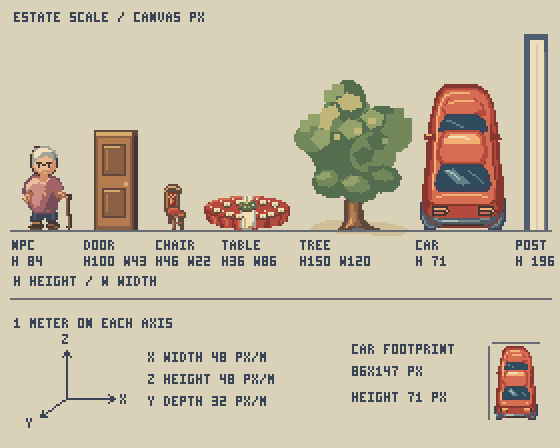
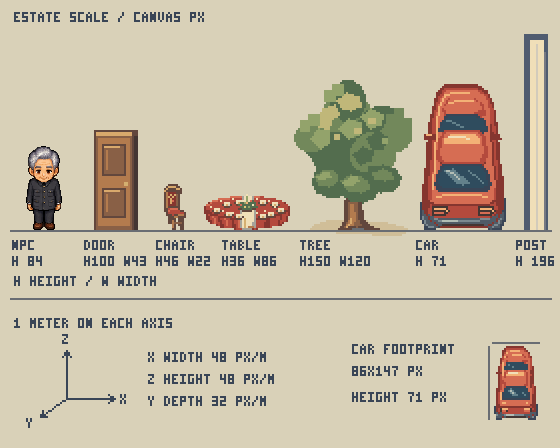
Use official banquet guests on estate art reference boards

Changed region(s): [[0.0304, 0.3125, 0.1518, 0.5312]]

diff --git a/回执/山庄收尾/画风/source/compare_r1.py b/回执/山庄收尾/画风/source/compare_r1.py
@@ -1,7 +1,7 @@
 #!/usr/bin/env python3
 """Rebuild the internal R1 comparison from actual committed banquet assets.
 Legacy inputs are read from Git objects (works with sparse checkout); new R1
-inputs are read from the current working files. No production files are changed.
+inputs default to the reviewed R1 Git revision. No production files are changed.
 Only integer NEAREST enlargement is used; no fit-to-cell, recoloring or redraw.
 """
 import argparse
@@ -14,6 +14,7 @@ from PIL import Image, ImageDraw, ImageFont
 
 ART = Path(__file__).resolve().parents[1]
 ROOT = ART.parents[2]
+REVIEWED_R1 = '4aefa8f7d4baa411461ddcb4931ca0a29acec4ae'
 OUTPUT_NAME = 'R1-现有宴会厅对照'
 TABLE_BOX = (204, 194, 290, 230)
 CHAIR_BOX = (164, 184, 186, 230)
@@ -70,7 +71,7 @@ def main():
     parser = argparse.ArgumentParser(description=__doc__)
     parser.add_argument('--ref', default='61c05009b3194911703f689ec82f363ac27f066d',
                         help='Committed formal source revision; resolved to a full SHA')
-    parser.add_argument('--r1-dir', type=Path, default=ART)
+    parser.add_argument('--r1-dir', type=Path, help='Optional working R1 files; default is the reviewed revision')
     parser.add_argument('--output', type=Path, default=ART / (OUTPUT_NAME + '.png'))
     args = parser.parse_args()
     revision = git('rev-parse', args.ref + '^{commit}').decode().strip()
@@ -86,9 +87,12 @@ def main():
         return json.loads(source(path))
 
     def current(name):
-        path = args.r1_dir / name
-        data = path.read_bytes()
-        new_inputs[name] = {'path': path.resolve().relative_to(ROOT).as_posix(), 'sha256': sha(data)}
+        path = (args.r1_dir or ART) / name
+        relative = path.resolve().relative_to(ROOT).as_posix()
+        data = path.read_bytes() if args.r1_dir else git('show', f'{REVIEWED_R1}:{relative}')
+        new_inputs[name] = {'path': relative, 'sha256': sha(data)}
+        if not args.r1_dir:
+            new_inputs[name]['git_revision'] = REVIEWED_R1
         return png(data)
 
     # Verify the actual formal default rather than choosing the prettier hall.
@@ -209,6 +213,8 @@ def main():
     text(canvas, (32, 1546), '右侧圆桌/椅子保留比例尺板纸色。坐标、调用链、输入哈希及复跑方式见同名“取材”记录。', 18, MUTED)
     # Reject torn input while another worker regenerates R1. Existing output stays intact.
     for item in new_inputs.values():
+        if not args.r1_dir:
+            continue
         assert sha((ROOT / item['path']).read_bytes()) == item['sha256'], 'R1 changed during composition; rerun after regeneration finishes'
     args.output.parent.mkdir(parents=True, exist_ok=True)
     canvas.save(args.output, optimize=True)
@@ -225,7 +231,7 @@ def main():
     def line(code, token):
         return next(i for i, s in enumerate(code.splitlines(), 1) if token in s)
     lines = [
-        '# R1 对照图取材证据', '', f'正式旧图基准：`{revision}`。右侧为运行脚本时当前 R1 文件，哈希见同名 JSON。', '',
+        '# R1 对照图取材证据', '', f'正式旧图基准：`{revision}`。右侧默认取已审的 R1 历史提交，哈希见同名 JSON。', '',
         '## 加载与缩放依据', '',
         f'- `godot/assets/hall.json`：hall55=true。`godot/scripts/main.gd:{line(main_code,"func hall_variant()")}` 优先级为一次性/同版本调试覆盖，未覆盖时读此正式配置；`_make_hall` 选择 DATA_55。',
         '- `godot/hongyuan/wedding.gd` 继承 main，正式邀请调用 `_enter_banquet()`，没有覆盖 hall_variant_once。此处核验默认路径，不假设个人调试存档。',
@@ -246,7 +252,7 @@ def main():
               '- 每档左右严格同尺度；原尺寸与 2 倍同时在一图中，2 倍仅 Image.Resampling.NEAREST。原素材颜色与尺寸不做归一化。',
               '- 这是静态调用链/图像取材核验，不是新一轮游戏运行或 Claude 审定。此对照图含旧素材颜色，不属于 R1 新素材色板审计集合。', '',
               '```sh', 'python3 回执/山庄收尾/画风/source/compare_r1.py', '```', '',
-              'V1 重生成三个人物和比例尺后执行同一命令即可；脚本会重新取当前文件并更新取材 JSON。输入若在拼图期间变化会拒绝写出，避免半新半旧。', '',
+              '正式比例尺已改用 LM-GUEST。历史人物仅从已审提交取材，不写回现行素材。', '',
               '阿鱼要做的事：暂时不用做。', '']
     args.output.with_name(args.output.stem + '-取材.md').write_text('\n'.join(lines))
     print(json.dumps({'output': str(args.output), 'size': canvas.size, 'legacy_revision': revision,

diff --git a/回执/山庄收尾/画风/source/draw_r1.py b/回执/山庄收尾/画风/source/draw_r1.py
@@ -1,4 +1,6 @@
 from PIL import Image, ImageDraw
+import io
+import json
 from pathlib import Path
 OUT=Path(__file__).resolve().parents[1]
 # Named shared palette. Every exported visible RGB is checked against this table at the end.
@@ -27,7 +29,26 @@ MATERIALS = (
     ('木头', 'WOOD'), ('白墙灰瓦', 'WALL / TILE'), ('水', 'WATER'),
     ('红毯', 'RED CARPET'), ('布', 'CLOTH'), ('金属玻璃', 'METAL / GLASS'),
 )
-PEOPLE = ('photographer_w', 'elder', 'farmer_2')
+ROOT = OUT.parents[2]
+GUEST_BASE = '6f6448b45898479d58e5381675abe8fca53fda52'
+GUEST_DIR = 'godot/assets/characters/lm'
+# These are full native down/idle frames. Positions are in canvas pixels.
+GUEST_PLACEMENTS = {'比例尺': ('LM-GUEST-10', (12, 146)), '材质样': ('LM-GUEST-01', (476, 176))}
+
+
+def guest_frame(code):
+    def read(name):
+        return subprocess.check_output(['git', 'show', f'{GUEST_BASE}:{GUEST_DIR}/{name}'], cwd=ROOT)
+
+    index = json.loads(read('lm_index.json'))['guest_atlas']
+    assert (index['fw'], index['fh']) == (64, 84)
+    row = index['codes'].index(code)
+    with Image.open(io.BytesIO(read(index['file']))) as atlas:
+        frame = atlas.crop((0, row * 84, 64, (row + 1) * 84)).convert('RGBA')
+    with Image.open(io.BytesIO(read(f'chr_{code}.png'))) as sprite:
+        assert frame.tobytes() == sprite.crop((0, 0, 64, 84)).convert('RGBA').tobytes()
+    assert frame.getchannel('A').getbbox()[1::2] == (0, 84)
+    return frame
 
 # Original bitmap lettering, on the same art grid as the drawings.
 GLYPHS = {
@@ -68,9 +89,12 @@ def label(draw, x, y, text):
 
 
 def export(canvas, name):
-    canvas.resize((canvas.width * 2, canvas.height * 2), Image.Resampling.NEAREST).save(
-        OUT / (name + '.png'), optimize=True,
-    )
+    assert {p[:3] for p in canvas.getdata() if p[3]} <= set(C.values())
+    full = canvas.resize((canvas.width * 2, canvas.height * 2), Image.Resampling.NEAREST)
+    if name in GUEST_PLACEMENTS:
+        code, position = GUEST_PLACEMENTS[name]
+        full.alpha_composite(guest_frame(code), position)
+    full.save(OUT / (name + '.png'), optimize=True)
 
 
 def grid_image(name):
@@ -99,7 +123,6 @@ def door(draw, x, base):
 def scale_board():
     canvas, draw = plate(280, 224)
     base = 115
-    canvas.alpha_composite(grid_image('elder'), (6, base - 42))
     door(draw, 47, base)
     canvas.alpha_composite(draw_chair(C), (82, base-23))
     canvas.alpha_composite(draw_table(C), (102, base-18))
@@ -150,16 +173,26 @@ def material_board():
         assert tile.size == (64, 64), (file, tile.size)
         canvas.alpha_composite(tile, (x, y))
         label(draw, x, y + 66, title)
-    canvas.alpha_composite(grid_image('photographer_w'), (238, 88))
     label(draw, 238, 135, 'NPC')
     label(draw, 238, 144, 'H 84 PX')
     export(canvas, '材质样')
 
 
+def foot_shadow():
+    fig = Image.new('RGBA', (20, 8))
+    draw = ImageDraw.Draw(fig)
+    dark = C['wood_d']
+    draw.polygon([(1,3),(4,2),(11,2),(16,3),(19,5),(18,6),(9,7),(4,6),(1,5)],
+                 fill=(*dark, 77))
+    draw.line([(3,2),(7,2),(7,3),(3,3),(3,2)], fill=(*dark, 255))
+    draw.line([(11,2),(15,2),(15,3),(11,3),(11,2)], fill=(*dark, 255))
+    export(fig, '脚影')
+
+
 def palette():
     with Image.open(OUT / '主色板.png') as image:
         approved = {pixel[:3] for pixel in image.convert('RGBA').getdata() if pixel[3]}
-    names = (*PEOPLE, '脚影', 'tree_scale', 'tree_scale_shadow', 'car_mine', 'car_mine_shadow', '比例尺', '材质样',
+    names = ('脚影', 'tree_scale', 'tree_scale_shadow', 'car_mine', 'car_mine_shadow',
              *(name for name, _ in MATERIALS))
     used = set()
     for name in names:
@@ -181,7 +214,8 @@ def main():
     if args.car_only:
         return
     if not args.compose_only:
-        for script in ('draw_r1_portraits.py', 'draw_r1_tree.py', 'draw_r1_materials.py'):
+        foot_shadow()
+        for script in ('draw_r1_tree.py', 'draw_r1_materials.py'):
             subprocess.run([sys.executable, str(Path(__file__).with_name(script))], check=True)
     scale_board()
     material_board()

diff --git a/回执/山庄收尾/画风/source/audit_r1.py b/回执/山庄收尾/画风/source/audit_r1.py
@@ -3,13 +3,13 @@
 from pathlib import Path
 import json, subprocess, hashlib, statistics, sys
 from PIL import Image
+from draw_r1 import GUEST_PLACEMENTS, guest_frame
 
 ROOT = Path(__file__).resolve().parents[4]
 ART = ROOT / '回执/山庄收尾/画风'
 BASE = '61c0500'
-PEOPLE = ['photographer_w.png', 'elder.png', 'farmer_2.png']
 MATERIALS = ['草地.png', '柏油.png', '石板.png', '木头.png', '白墙灰瓦.png', '水.png', '红毯.png', '布.png', '金属玻璃.png']
-CORE = PEOPLE + MATERIALS + ['car_mine.png', '脚影.png', 'car_mine_shadow.png', 'tree_scale.png', 'tree_scale_shadow.png']
+CORE = MATERIALS + ['car_mine.png', '脚影.png', 'car_mine_shadow.png', 'tree_scale.png', 'tree_scale_shadow.png']
 SHEETS = ['主色板.png', '材质样.png', '比例尺.png']
 
 def git(*args):
@@ -41,10 +41,21 @@ def main():
         try: im=Image.open(p).convert('RGBA')
         except Exception as e: checks.append((name,'FAIL',f'PNG decode: {e}')); continue
         images[name]=im
-        visible.update(v[:3] for v in im.getdata() if v[3])
-        checks.append((name,'INFO',f'{im.width}x{im.height}; 2x2 mixed blocks={grid_check(im)}'))
-    for n in PEOPLE:
-        if n in images: checks.append((n,'AUTO',f'84px body target: {images[n].size==(64,84)}'))
+        placement = GUEST_PLACEMENTS.get(p.stem)
+        art_only = im.copy()
+        if placement:
+            code, (x, y) = placement
+            frame = guest_frame(code)
+            box = (x, y, x + frame.width, y + frame.height)
+            expected = Image.new('RGBA', frame.size, (217, 209, 184, 255))
+            expected.alpha_composite(frame)
+            assert im.crop(box).tobytes() == expected.tobytes(), f'{name}: native guest pixels changed'
+            checks.append((name,'AUTO',f'{code} 64x84 atlas pixels match exactly; origin {(x,y)}'))
+            art_only.paste((0,0,0,0), box)
+        visible.update(v[:3] for v in art_only.getdata() if v[3])
+        mixed = grid_check(art_only)
+        assert mixed == 0, (name, mixed)
+        checks.append((name,'INFO',f'{im.width}x{im.height}; environment 2x2 mixed blocks={mixed}'))
     for n in MATERIALS:
         if n not in images: continue
         im=images[n]; sm=seam(im)
@@ -60,6 +71,7 @@ def main():
     palette=images.get('主色板.png')
     if palette:
         swatches={p[:3] for p in palette.getdata() if p[3]}
+        assert len(swatches) == 51 and not visible-swatches
         checks.append(('palette','AUTO',f'{len(visible)} visible colors across sampled PNGs; palette swatches={len(swatches)}; <=64={len(swatches)<=64}; missing swatches={len(visible-swatches)}'))
     # Runtime-code change audit relative to the merged R1 baseline.
     try:
@@ -69,7 +81,6 @@ def main():
     except Exception as e: checks.append(('runtime','PENDING',f'git baseline check unavailable: {e}'))
     for n in missing: checks.append((n,'PENDING','required item not present'))
     for name,status,detail in checks: print(f'{status}\t{name}\t{detail}')
-    print('MANUAL\tpeople\t鞋左右脚色块、三人职业可辨性、是否84px实际身体、树团枝干形态与三阶暖光方向。')
     print('MANUAL\tmaterials\t检查九种材质纹样是否可辨、光向统一；依据报告的边缘跳变量在原尺寸和实际平铺下目视接缝。')
     print('MANUAL\tcar\t3/4俯视车顶造型；前后轮位置和轮数、斜车窗、71px立高；两种影子的接触暗边和右下约30%拖影。')
     print('MANUAL\tscale\t比例尺、同一素材原尺寸/2倍并排审看；核对84px人和门/桌椅/树/车的相对尺度。')

diff --git a/回执/山庄收尾/看板.md b/回执/山庄收尾/看板.md
@@ -2,7 +2,7 @@
 
 **任务书基线**为 hongyuan-launch @ 013c8dd（#66），R0 已合并至 8080b16（#68）。制作和锁定坐标沿用正式任务书及逐件附表。阿鱼 11/07 放行 R1 收尾与 R2 停车场并行。[Claude 正式任务书](全山庄重画任务书-Claude.md) · [逐件附表](全山庄重画-附表-逐件清单.md)
 
-**停车场整块预计 2026-11-09（周一，太平洋时间）交付。** 11/07 已接入地面、院墙和两栋小屋，十辆车已交 Claude 看角度。车通过后批量接入。11/09 目标是整块接入、V5 验证、Claude 验收完成后交阿鱼看成品。预计日期随两次审阅的反馈更新。[十辆车交接回执](https://github.com/bardayu-cpu/changhong-village/issues/65#issuecomment-6710852595)
+**十辆车预计 2026-11-08（周日）交 Claude 复审；停车场整块预计 2026-11-10（周二）交 Claude 验收。** 日期均为太平洋时间。整块送审取决于十车先过审、V3 批量接入和 V5 整块复验。Claude 验收通过后再给阿鱼看成品。[Claude 本轮审定](https://github.com/bardayu-cpu/changhong-village/issues/65#issuecomment-6716023518)
 
 **硬规矩：**锁定布局、脚点、NPC 站位、碰撞、导航和玩法；逐件原创，在一颗美术像素占 2×2 画布像素的网格上手绘，独立透明零件、底图和前景分层接入。不能贴整幅生成图，也不能靠删物件消除占位。施工截图与 R1 图仅内部；给阿鱼的只能是已经接进游戏、走过门口和四边、四尺寸无色块的成品。
 
@@ -14,11 +14,11 @@
 | --- | --- | --- | --- |
 | R0 | 15 画布四尺寸镜头可见范围、每边出血、夹边；重点实测 9:21 竖向。原画面走到门口和四边，截图脚本覆盖四尺寸 × 四边/所有出口；报告逐块列最低出血。锁定坐标差为 0。 | V2 Astra / High → V5 Luna / Medium | [#68 已合并](https://github.com/bardayu-cpu/changhong-village/pull/68)；V5 镜头边界通过；四边 264/272，两种宴会厅变体顶部 8 次未到达已在基线复现，保留记录 |
 | R0-ref | 把完整原提交 `f196cc37ab37866a0c9efed5e2b224e101373c8f` 推为 `ref/luoman-f196cc3`，核远端指向。只推参考分支，无合并。 | V2 Astra / High | 已推并核实远端完整 SHA；未合并，化妆间和旧娱乐室后续对照用 |
-| R1 | 固定 51 色主色板、左上暖光和独立投影，桌椅与树对照阿鱼家、宴会厅用色。正式场景人物沿用现有素材。 | V4 Luna / Medium 对色、V1 合板 → V5 Luna / Medium → Claude | 上版 `beb1fbc` 已交 #70 复核。R1 复审与停车场并行。[Claude 部分通过意见](https://github.com/bardayu-cpu/changhong-village/issues/65#issuecomment-6710533735) |
-| R2 地面 | 柏油、车位线、车道、路缘、草边、步道、两段院墙。33 项原地面边界、136px 出血。 | V2 Astra / High 接入 → V3 6.1 Sol / Low 接管 → V5 Luna / Medium | 已在 `art/estate-r2-ground-1107` 接入，四尺寸场景走查完成 |
-| R2 车 | 10 辆独立车图，统一从南往北斜俯视，车头向北，突出车顶、后窗与车尾。按原脚点、外框与高度绘制。 | V4 Luna / Medium 初稿、V1 重出锁定投影 → V5 Luna / Medium → Claude 看车 → V3 6.1 Sol / Low 接入 | 十辆齐，V5 已核对。Claude 通过后批量接入。[#74 仅车图内审](https://github.com/bardayu-cpu/changhong-village/pull/74) |
-| R2 小屋 | 洗手间、杂物处独立绘制并按原脚点接入。 | V3 6.1 Sol / Low 绘制、V1 接入 → V5 Luna / Medium | 已接入 `c89c109`，四尺寸场景内 40 条路线和 60 个镜头样本通过 |
-| R2 整块 | 四尺寸、四边、三个门、交互和原坐标复验。沿用现有人物。 | V3 6.1 Sol / Low 接 → V5 Luna / Medium → V1 Astra / High（目标）→ Claude → 阿鱼 | 11/09 预计交付。整块接入、V5 验证、Claude 通过后给阿鱼看成品，阿鱼点头后开 R3 |
+| R1 | 51 色、材质、树、桌椅与比例尺已定为全庄标准。比例尺和材质样换 LM-GUEST 正式宾客原帧；环境用色不变。 | V1 Astra / High（目标）→ V5 Luna / Medium | [Claude 已通过 #70](https://github.com/bardayu-cpu/changhong-village/issues/65#issuecomment-6716023518)，宾客替换属于收尾，无须再次送审 R1 |
+| R2 地面 | 柏油、车位线、车道、路缘、草边、步道、两段院墙。33 项原地面边界、136px 出血；准备原尺寸「新地面＋现有人物＋阿鱼家同类地面」对色证据。 | V2 Astra / High 对色 → V3 6.1 Sol / Low 接入与再生 → V5 Luna / Medium | 地面和院墙已在候选版接入；原尺寸对色随整块送审 |
+| R2 车 | 十辆全部退改；圆角车头、露前挡、四类剪影、双后视镜、两侧露轮，补尾灯、空牌框和保险杠暗线；「我的车」驾驶门开。占地、脚点、高度不变。 | V4 Luna / Medium → V1 Astra / High（目标）→ V5 Luna / Medium → Claude → V3 6.1 Sol / Low 接入 | [#74 仅车图内审](https://github.com/bardayu-cpu/changhong-village/pull/74)。11/08 预计交 Claude 复审；车过审前不接入游戏 |
+| R2 小屋 | 洗手间、杂物处独立绘制并按原脚点接入。 | V3 6.1 Sol / Low 绘制、V1 接入 → V5 Luna / Medium | 两栋已接入候选版；四尺寸内部 40 条路线、60 个镜头样本通过。整块验收时随车再跑 |
+| R2 整块 | 十车批准后，与地面、院墙、两栋小屋合在游戏里；四尺寸、四边、三个门、交互和原坐标复验。附 LM-GUEST 与阿鱼家原尺寸对色。 | V3 6.1 Sol / Low 接入 → V5 Luna / Medium → V1 Astra / High（目标）→ Claude → 阿鱼 | 11/10 预计交 Claude 验收。Claude 过了才给阿鱼看；阿鱼点头后开 R3 |
 | R3a | 前门：门楼、气球拱门、门卫亭及路口按附表。 | V4 Luna / Medium → V3 6.1 Sol / Low → V5 Luna / Medium → V1 Astra / High（目标）→ Claude | 未完成，锁到 R2 阿鱼点头 |
 | R3b | 迎宾院：花墙、签到、相机、回忆册、家具和 NPC。 | V4 Luna / Medium → V3 6.1 Sol / Low → V5 Luna / Medium → V1 Astra / High（目标）→ Claude | 未完成，依 R3a |
 | R3c | 喷泉广场：喷泉动画和八个出口辨识。 | V4 Luna / Medium → V3 6.1 Sol / Low → V5 Luna / Medium → V1 Astra / High（目标）→ Claude | 未完成，依 R3b |

diff --git a/回执/山庄收尾/画风/README.md b/回执/山庄收尾/画风/README.md
@@ -1,10 +1,10 @@
-# R1 画风底子 · Claude 退改复审
+# R1 画风底子 · 全庄标准
 
-这批只供 Claude 内审。#70 第一稿经 #65 复审部分通过，51 色主色板、光影、投影和已经可用的材质为全庄标准。第二稿修整了人物对照、车、桌椅、树干，补清灰瓦并用红毯替换平铺车漆样。按阿鱼最新安排，停车场与 R1 收尾并行，车图单独通过 Claude 后接入，人物沿用现有素材。[#65 复审原文](https://github.com/bardayu-cpu/changhong-village/issues/65#issuecomment-6710533735)
+Claude 已通过 #70 的材质、树、桌椅与比例尺，51 色主色板、暖光与投影定为全庄标准。比例尺和材质样换正式宾客，R1 不再另行送审。停车场整块交付时附上新地面、现有人物与阿鱼家同类地面的原尺寸并排。[Claude 审定](https://github.com/bardayu-cpu/changhong-village/issues/65#issuecomment-6716023518)
 
 | Claude 退改项 | 新交付 |
 | --- | --- |
-| 1. 三个人物 | `photographer_w.png`、`elder.png`、`farmer_2.png` 各 64×84，实体高 84px。用深色眼点、少量肤色和成块衣色让相机、拐杖/披肩和草帽的剪影在原尺寸可读。 |
+| 1. 人物比例参考 | 比例尺用现有 `LM-GUEST-10`，材质样用现有 `LM-GUEST-01`。从正式宾客图集取 64×84 正面原帧，逐像素核对同编号独立图，不缩放、不重画。 |
 | 2. 左上暖光 | 继续使用通过的 51 色主色板和三阶明暗，源脚本逐一检查新稿可见色。 |
 | 3. 接触影与拖影 | `脚影.png`、`car_mine_shadow.png` 单独导出。贴地接触部分厚 2 个美术像素，右下淡影 alpha 77（约 30%），两层使用色板内暗色。 |
 | 4. 车的 3/4 视角 | `car_mine.png` 朝北停，从南侧读到车顶、后窗、尾灯、后保险杠和两个后轮下沿。保留斜反光及高光带，外框 86×147，立高标注 71，末行是透明锚边。 |
@@ -13,11 +13,11 @@
 
 比例尺仍为 560×448，公共脚线 y=230，人物高 84、门高 100、椅高 46、桌高 36、树高 150。保留 48 / 48 / 32 三轴和锁定车高 71 标注。车的停车占地和立高分开标注。
 
-`R1-现有宴会厅对照.png` 是审图证据，展示游戏实际使用的宴会厅宾客及桌椅，并列新版 R1 人物和比例尺家具，分别用原尺寸和最近邻 2 倍。旧宴会厅图只在这张对照证据中出现，不参与新素材的色板和原创校验。
+`R1-现有宴会厅对照.png` 是审图证据，展示游戏实际使用的宴会厅宾客及桌椅，并列新版 R1 人物和比例尺家具，分别用原尺寸和最近邻 2 倍。这张是已送 Claude 的历史证据，复跑从 #70 对应 Git 提交取旧试稿，不作为现行素材。现行样板里宾客原帧不参与环境的色板与 2×2 网格校验。
 
 阿鱼家与宴会厅对色取自 `61c0500` 的正式素材。阿鱼家一楼餐桌 `floor1-redraw/dining-table.png` 的暖木、餐椅 `floor1-redraw/dining-chairs.png` 的奶油浅色，在 R1 用 `#896046`、`#b37b4e` 和 `#f0dfb8` 对齐。绿植 `floor1-redraw/botanical-4.png` 用来校树冠的暖绿方向，R1 保持 `#536d4e`、`#72885b`、`#93a36b` 三阶。正式 55 桌厅 `scene_roman_banquet_55/art_table.png` 的喜红与瓷白对应 R1 的 `#b44a3d`、`#d66d53` 和 `#f0dfb8`。这些都是已通过的 51 色里的颜色。
 
-按 11/07 新安排，正式场景人物使用现有素材。本目录的人物图是历史内审对照，制作与验收停车场不依赖这些人物试稿。
+正式场景人物继续沿用现有素材。三个废弃试稿已从现行目录移除；已送审的对照图和记录仍保留。
 
 在项目根目录复现：
 
